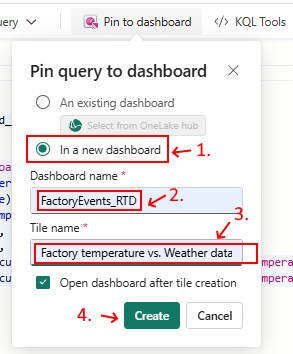
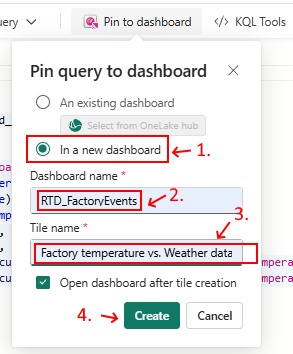
fixed sashboard

Changed region(s): [[0.1536, 0.5282, 0.4915, 0.5904]]

diff --git a/docs/workshop.md b/docs/workshop.md
@@ -1402,7 +1402,7 @@ GoldLoraWanTemperature
 
 ![alt text](assets/image_task08_step04.png)
 
-8. A dialog is shown. First, select pinning to a new dashboard by selecting `In a new dashboard`. Then, **Name** the new dashboard `FactoryEvents_RTD` and **name** the tile within the dashboard, showing this query `Factory temperature vs. Weather data`. Finally, **Create** the dashboard.
+8. A dialog is shown. First, select pinning to a new dashboard by selecting `In a new dashboard`. Then, **Name** the new dashboard `RTD_FactoryEvents` and **name** the tile within the dashboard, showing this query `Factory temperature vs. Weather data`. Finally, **Create** the dashboard.
 
 ![alt text](assets/image_task08_step05.png)
 
